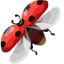
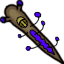
Reworked Web Style with new color Palette
Mainly reworked the color pallete for backgrounds and items. Also added new logo and cursor.

diff --git a/styles.css b/styles.css
@@ -6,10 +6,13 @@
 }
 
 body {
-    background-color: rgb(9, 93, 50);
     font-family: 'Segoe UI', Tahoma, Geneva, Verdana, sans-serif;
     cursor: url("images/mouse/cursor.png"), auto;
     overflow-x: hidden;
+}
+
+.section-gradient {
+    background: linear-gradient(to bottom, var(--section-start-color), var(--section-end-color));
 }
 
 .clickable {
@@ -22,9 +25,9 @@ header {
     display: flex;
     position: sticky;
     top: 0;
-    box-shadow: 0px 0px 5px 2px rgb(0, 50, 28);
+    box-shadow: 0px 0px 5px 2px #02111B;
 
-    background-color: #095513;
+    background-color: #052f4a;
 
     padding: 10px;
 
@@ -55,14 +58,15 @@ header {
         }
 
         a:hover {
-            color: rgb(54, 9, 93);
+            color: rgb(0, 0, 0);
         }
     }
 }
 
 #banner {
     height: 560px;
-    background: linear-gradient(to bottom, #1aa54f, black);
+    --section-start-color: black;
+    --section-end-color: #1f2d12;
 
     text-align: center;
 
@@ -84,13 +88,13 @@ header {
 }
 
 #nest-invaders {
-    background-image: url(images/bg_forest.jpeg);
+    background-image: url(images/bg_forest_2.png);
     background-size: cover;
 
     text-align: center;
 
     padding: 50px;
-    padding-bottom: 15px;
+    padding-bottom: 30px;
 
     h1 {
         text-align: left;
@@ -136,7 +140,7 @@ header {
         padding: 5px 15px;
         margin-top: 20px;
         font-size: 40px;
-        background-color: #1aa54f;
+        background-color: #5AFF15;
         text-decoration: none;
 
         border: none;
@@ -144,7 +148,7 @@ header {
     }
 
     .play-link:hover {
-        background-color: #148d42;
+        background-color: #4bd211;
         transform: translateY(-1px);
     }
 
@@ -154,6 +158,11 @@ header {
 }
 
 #aboutNest {
+    --section-start-color: #1f2d12;
+    --section-end-color: #0a081d;
+
+    padding-top: 30px;
+    padding-bottom: 30px;
 
     h1 {
         margin-top: 10px;
@@ -166,8 +175,6 @@ header {
     .content {
         padding: 50px;
         padding-bottom: 15px;
-
-        margin-top: 12px;
         padding-top: 10px;
 
         align-items: center;
@@ -214,17 +221,15 @@ header {
 #aboutUs {
     padding: 50px;
     padding-bottom: 20px;
-    padding-top: 0px;
+    padding-top: 30px;
     text-align: center;
+    --section-start-color: #0a081d;
+    --section-end-color: #14081d;
 
     h1 {
-        margin-bottom: 10px;
+        margin-bottom: 40px;
         margin-top: 10px;
         font-size: 35px;
-    }
-
-    hr {
-        margin-bottom: 20px;
     }
 
     .content {
@@ -237,7 +242,7 @@ header {
     .member {
         padding: 15px;
         text-align: center;
-        background-color: cadetblue;
+        background-color: #5f2f8f;
         border: 3px solid black;
         clip-path: polygon(10% 0, 100% 0, 100% 85%, 90% 100%, 0 100%, 0 15%);
         position: relative;
@@ -285,9 +290,12 @@ header {
 }
 
 #objetivos {
-    padding: 10px 50px 30px;
+    padding: 30px 50px 30px;
+    --section-start-color: #14081d;
+    --section-end-color: #14081d;
+    color: #2c043b;
 
-    hr {
+    h1, h2 {
         margin-bottom: 20px;
     }
 
@@ -337,7 +345,7 @@ header {
             overflow: hidden;
             border: 1px solid rgb(255 255 255 / 22%);
             border-radius: 12px;
-            background: rgb(0 0 0 / 18%);
+            background: #0c6da9;
             box-shadow: 0 5px 14px rgb(0 0 0 / 20%);
         }
 
@@ -387,7 +395,7 @@ header {
         padding: 16px; 
     }
     .frente { 
-        background: linear-gradient(135deg, rgb(30, 151, 50), rgb(17, 102, 45)); 
+        background: linear-gradient(135deg, #7700ff, #5ec7ff); 
         color: #fff; 
         font-weight: 900; 
         font-size: 22px; 
@@ -407,9 +415,9 @@ header {
 footer {
     display: grid;
     grid-template-columns: 1fr 1fr;
-    box-shadow: 0px 0px 5px 2px rgb(0, 50, 28);
+    box-shadow: 0px 0px 5px 2px #02111B;
 
-    background-color: #095513;
+    background-color: #02111B;
 
     padding: 10px;
 
@@ -451,7 +459,7 @@ dialog.member-profile {
     max-height: calc(100% - 32px);
     padding: clamp(20px, 4vw, 36px);
     border: 3px solid black;
-    background: cadetblue;
+    background: #5f2f8f;
     color: white;
     transform: translate(-50%, -50%);
 }
@@ -466,7 +474,7 @@ dialog.member-profile::backdrop {
     padding: 5px 15px;
     border: none;
     border-radius: 15px;
-    background-color: #1aa54f;
+    background-color: #5AFF15;
     color: white;
     font-family: Impact, Haettenschweiler, 'Arial Narrow Bold', sans-serif;
     font-size: 20px;
@@ -474,7 +482,7 @@ dialog.member-profile::backdrop {
 }
 
 .member-profile-close:hover {
-    background-color: #148d42;
+    background-color: #4bd211;
     transform: translateY(-1px);
 }
 

diff --git a/index.html b/index.html
@@ -45,10 +45,10 @@
     </header>
 
     <main>
-        <section id="banner">
+        <section id="banner" class="section-gradient">
             <h1>¡Bienvenido a Insecta Games!</h1>
             <div>
-                <img src="images/logos/logo.png" draggable="false" alt="Logo de Insecta Games">
+                <img src="images/logos/logoBlanco.png" draggable="false" alt="Logo de Insecta Games">
             </div>
         </section>
 
@@ -56,7 +56,7 @@
             <h1>NUESTRO JUEGO</h1>
             <div class="content">
                 <div class="left">
-                    <img src="images/logos/logoBlanco.png" draggable="false" alt="Logo de Nest Invaders">
+                    <img src="images/logos/LogoJuego.png" draggable="false" alt="Logo de Nest Invaders">
                     <p><b>¡Conquista la colmena!</b></p>
                 </div>
 
@@ -73,7 +73,7 @@
             </div>
         </section>
 
-        <section id="aboutNest">
+        <section id="aboutNest" class="section-gradient">
             <div class="content">
                 <div id="info">
                     <h1>SOBRE NEST INVADERS</h1>
@@ -125,8 +125,7 @@
             </div>
         </section>
 
-        <section id="aboutUs">
-            <hr>
+        <section id="aboutUs" class="section-gradient">
             <h1>Miembros del Equipo</h1>
 
             <div class="content">
@@ -253,8 +252,7 @@
 
 
 
-        <section id="objetivos">
-            <hr>
+        <section id="objetivos" class="section-gradient">
             <h1>NUESTROS OBJETIVOS</h1>
 
             <div class="content">
@@ -295,6 +293,16 @@
                             <h3>Don't Starve Together</h3>
                             <img class="clickable" src="images/screenshots/gameplay.gif" draggable="false"
                                 alt="Don't Starve Together Showcase">
+                        </div>
+                        <div class="the-king-is-watching">
+                            <h3>The King is Watching</h3>
+                            <img class="clickable" src="images/screenshots/gameplay.gif" draggable="false"
+                                alt="The King is Watching Showcase">
+                        </div>
+                        <div class="bad-north">
+                            <h3>Bad North</h3>
+                            <img class="clickable" src="images/screenshots/gameplay.gif" draggable="false"
+                                alt="Bad North Showcase">
                         </div>
                     </div>
                 </div>
